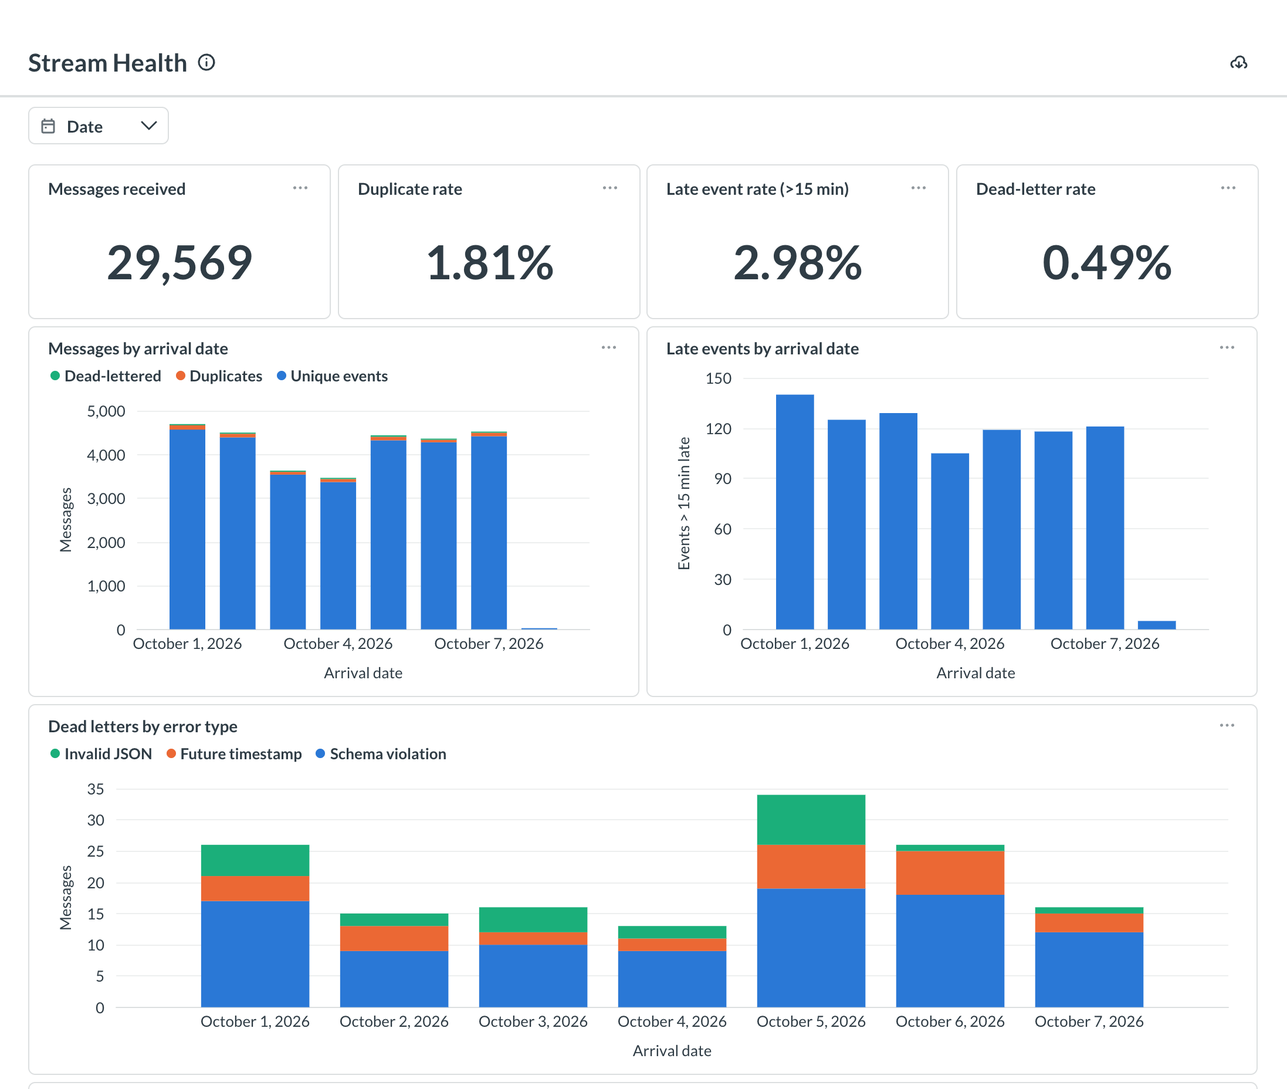
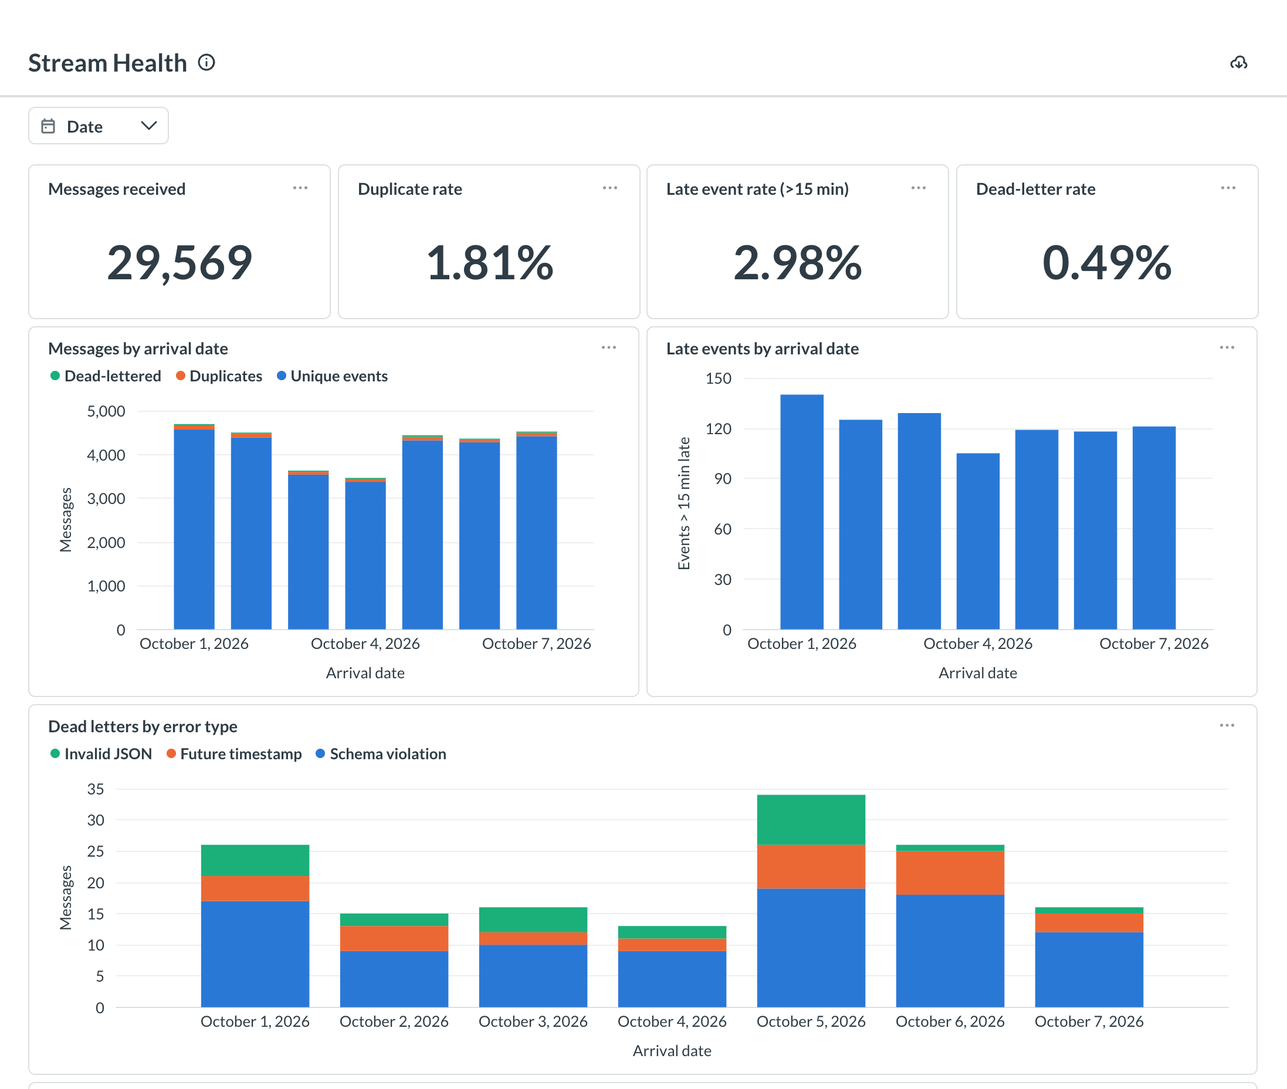
fix: explain spill-over days and the dead-letter queue in reports
- agg_pipeline_health / agg_dead_letters_daily: is_spillover_day flags arrival
  days that hold only late stragglers for days already over (5 events from
  Oct 7 that arrived after midnight). Daily charts skip them; totals keep them,
  and the HTML report says where they went. Tested in the e2e suite.
- HTML report: dead-letter section with readable error names, what each
  means, share of all messages and a total row
- Metabase Stream Health daily views exclude spill-over days; new screenshots

Changed region(s): [[0.5889, 0.3438, 0.9298, 0.625], [0.124, 0.375, 0.4339, 0.625]]

diff --git a/docs/kpi_report.html b/docs/kpi_report.html
@@ -73,6 +73,9 @@
   table { border-collapse: collapse; width: 100%; margin-top: 8px; font-variant-numeric: tabular-nums; }
   th, td { text-align: left; padding: 4px 8px; border-bottom: 1px solid var(--grid); }
   th { color: var(--text-muted); font-weight: 600; }
+  th.num, td.num { text-align: right; white-space: nowrap; }
+  td.desc { color: var(--text-secondary); }
+  tr.total td { font-weight: 600; border-bottom: 0; }
   .scroll { overflow-x: auto; }
   footer { margin-top: 40px; font-size: 12px; color: var(--text-muted); }
 </style>
@@ -101,18 +104,21 @@
     <section class="card"><h3>Prep-time SLA breach rate by store</h3><p class="sub">Share of paid orders taking over 10 min to be ready</p>
       <div class="chart" id="c-sla"></div><details><summary>Table</summary><div class="scroll" id="t-sla"></div></details></section>
     <section class="card"><h3>Messages by arrival date</h3><p class="sub">What the loader received, split by outcome</p>
-      <div class="chart" id="c-health"></div><details><summary>Table</summary><div class="scroll" id="t-health"></div></details></section>
+      <div class="chart" id="c-health"></div><p class="sub" id="spill-note" hidden></p><details><summary>Table</summary><div class="scroll" id="t-health"></div></details></section>
     <section class="card"><h3>Top items added to cart</h3><p class="sub">Units; hover for cart-to-order conversion</p>
       <div class="chart" id="c-items"></div><details><summary>Table</summary><div class="scroll" id="t-items"></div></details></section>
   </div>
 
   <h2>Dead-letter queue</h2>
-  <section class="card"><div class="scroll" id="t-dlq"></div><p class="sub" style="margin:8px 0">Rejected by the event contract and kept with the raw payload for replay.</p></section>
+  <section class="card"><h3>Messages rejected by the event contract</h3>
+    <p class="sub">Kept with the raw payload and the reason, so they can be fixed and replayed instead of silently dropped.
+      The simulator corrupts about 0.5% of messages on purpose to prove they are caught.</p>
+    <div class="scroll" id="t-dlq"></div></section>
 
   <footer>Generated by <code>pourstream report</code> from the DuckDB warehouse.</footer>
 </main>
 <script>
-const DATA = {"kpis": [{"orders": 2177, "net_revenue": 484785.0, "completion_rate": 0.934313275149288, "cancellation_rate": 0.06063389986219568, "avg_prep_minutes": 5.782163601161665, "sla_breach_rate": 0.05663117134559535}], "health_totals": [{"total_messages": 29569, "unique_events": 28888, "duplicates": 535, "late_events": 862, "dead_letters": 146, "p95_lag_seconds": 2.0}], "daily_revenue": [{"day": "2026-10-01", "revenue": 79800.0, "orders": 353}, {"day": "2026-10-02", "revenue": 76935.0, "orders": 344}, {"day": "2026-10-03", "revenue": 55400.0, "orders": 252}, {"day": "2026-10-04", "revenue": 53335.0, "orders": 240}, {"day": "2026-10-05", "revenue": 73355.0, "orders": 331}, {"day": "2026-10-06", "revenue": 71705.0, "orders": 317}, {"day": "2026-10-07", "revenue": 74255.0, "orders": 340}], "hourly_orders": [{"hour": 6, "orders": 89, "p90_prep_minutes": 5.32}, {"hour": 7, "orders": 191, "p90_prep_minutes": 8.29}, {"hour": 8, "orders": 222, "p90_prep_minutes": 8.9}, {"hour": 9, "orders": 143, "p90_prep_minutes": 5.5}, {"hour": 10, "orders": 100, "p90_prep_minutes": 5.04}, {"hour": 11, "orders": 147, "p90_prep_minutes": 5.72}, {"hour": 12, "orders": 178, "p90_prep_minutes": 8.63}, {"hour": 13, "orders": 151, "p90_prep_minutes": 8.32}, {"hour": 14, "orders": 98, "p90_prep_minutes": 4.9}, {"hour": 15, "orders": 128, "p90_prep_minutes": 5.2}, {"hour": 16, "orders": 169, "p90_prep_minutes": 5.2}, {"hour": 17, "orders": 151, "p90_prep_minutes": 8.88}, {"hour": 18, "orders": 149, "p90_prep_minutes": 5.38}, {"hour": 19, "orders": 129, "p90_prep_minutes": 5.42}, {"hour": 20, "orders": 79, "p90_prep_minutes": 5.08}, {"hour": 21, "orders": 51, "p90_prep_minutes": 4.95}, {"hour": 22, "orders": 2, "p90_prep_minutes": 7.04}], "funnel": [{"Sessions": 6912, "Viewed menu": 6353, "Added to cart": 3131, "Checkout": 2368, "Placed order": 2177, "Paid": 2122, "Picked up": 2034}], "store_sla": [{"store": "PourStream Nuvali", "format": "kiosk", "breach_rate": 0.1622, "avg_prep_minutes": 6.97, "orders": 111}, {"store": "PourStream Ayala Triangle", "format": "kiosk", "breach_rate": 0.1415, "avg_prep_minutes": 6.57, "orders": 106}, {"store": "PourStream UP Town", "format": "kiosk", "breach_rate": 0.1287, "avg_prep_minutes": 6.2, "orders": 101}, {"store": "PourStream Capitol Commons", "format": "kiosk", "breach_rate": 0.125, "avg_prep_minutes": 6.75, "orders": 104}, {"store": "PourStream Ortigas Center", "format": "standard", "breach_rate": 0.052, "avg_prep_minutes": 5.83, "orders": 173}, {"store": "PourStream Ayala Center Cebu", "format": "standard", "breach_rate": 0.0503, "avg_prep_minutes": 5.49, "orders": 159}, {"store": "PourStream Katipunan", "format": "standard", "breach_rate": 0.0476, "avg_prep_minutes": 5.67, "orders": 189}, {"store": "PourStream BGC High Street", "format": "flagship", "breach_rate": 0.04, "avg_prep_minutes": 5.67, "orders": 275}, {"store": "PourStream Abreeza", "format": "standard", "breach_rate": 0.0368, "avg_prep_minutes": 5.42, "orders": 163}, {"store": "PourStream Eastwood", "format": "standard", "breach_rate": 0.0319, "avg_prep_minutes": 5.56, "orders": 188}, {"store": "PourStream IT Park", "format": "flagship", "breach_rate": 0.0219, "avg_prep_minutes": 5.5, "orders": 320}, {"store": "PourStream Alabang Town", "format": "standard", "breach_rate": 0.0113, "avg_prep_minutes": 5.35, "orders": 177}], "health_daily": [{"day": "2026-10-01", "unique_events": 4567, "duplicate_deliveries": 102, "dead_lettered_messages": 26, "late_events": 140, "late_event_rate": 0.0307, "dead_letter_rate": 0.0055}, {"day": "2026-10-02", "unique_events": 4390, "duplicate_deliveries": 83, "dead_lettered_messages": 15, "late_events": 125, "late_event_rate": 0.0285, "dead_letter_rate": 0.0033}, {"day": "2026-10-03", "unique_events": 3539, "duplicate_deliveries": 64, "dead_lettered_messages": 16, "late_events": 129, "late_event_rate": 0.0365, "dead_letter_rate": 0.0044}, {"day": "2026-10-04", "unique_events": 3369, "duplicate_deliveries": 69, "dead_lettered_messages": 13, "late_events": 105, "late_event_rate": 0.0312, "dead_letter_rate": 0.0038}, {"day": "2026-10-05", "unique_events": 4323, "duplicate_deliveries": 81, "dead_lettered_messages": 34, "late_events": 119, "late_event_rate": 0.0275, "dead_letter_rate": 0.0077}, {"day": "2026-10-06", "unique_events": 4278, "duplicate_deliveries": 57, "dead_lettered_messages": 26, "late_events": 118, "late_event_rate": 0.0276, "dead_letter_rate": 0.006}, {"day": "2026-10-07", "unique_events": 4417, "duplicate_deliveries": 79, "dead_lettered_messages": 16, "late_events": 121, "late_event_rate": 0.0274, "dead_letter_rate": 0.0035}, {"day": "2026-10-08", "unique_events": 5, "duplicate_deliveries": 0, "dead_lettered_messages": 0, "late_events": 5, "late_event_rate": 1.0, "dead_letter_rate": 0.0}], "top_items": [{"item": "Dark Chocolate", "category": "non_coffee", "units": 447, "conversion": 0.7273}, {"item": "Chicken Pesto Sandwich", "category": "food", "units": 436, "conversion": 0.6617}, {"item": "Cappuccino", "category": "espresso", "units": 418, "conversion": 0.7044}, {"item": "Butter Croissant", "category": "food", "units": 415, "conversion": 0.7219}, {"item": "Spanish Latte", "category": "espresso", "units": 407, "conversion": 0.7075}, {"item": "Ube Cheesecake Slice", "category": "food", "units": 406, "conversion": 0.677}, {"item": "Cafe Latte", "category": "espresso", "units": 405, "conversion": 0.6794}, {"item": "Americano", "category": "espresso", "units": 403, "conversion": 0.6975}, {"item": "Strawberry Milk", "category": "non_coffee", "units": 399, "conversion": 0.6634}, {"item": "Cold Brew", "category": "cold_brew", "units": 399, "conversion": 0.6907}], "dlq": [{"error_type": "schema_violation", "messages": 94}, {"error_type": "future_timestamp", "messages": 29}, {"error_type": "invalid_json", "messages": 23}]};
+const DATA = {"kpis": [{"orders": 2177, "net_revenue": 484785.0, "completion_rate": 0.934313275149288, "cancellation_rate": 0.06063389986219568, "avg_prep_minutes": 5.782163601161665, "sla_breach_rate": 0.05663117134559535}], "health_totals": [{"total_messages": 29569, "unique_events": 28888, "duplicates": 535, "late_events": 862, "dead_letters": 146, "p95_lag_seconds": 2.0}], "daily_revenue": [{"day": "2026-10-01", "revenue": 79800.0, "orders": 353}, {"day": "2026-10-02", "revenue": 76935.0, "orders": 344}, {"day": "2026-10-03", "revenue": 55400.0, "orders": 252}, {"day": "2026-10-04", "revenue": 53335.0, "orders": 240}, {"day": "2026-10-05", "revenue": 73355.0, "orders": 331}, {"day": "2026-10-06", "revenue": 71705.0, "orders": 317}, {"day": "2026-10-07", "revenue": 74255.0, "orders": 340}], "hourly_orders": [{"hour": 6, "orders": 89, "p90_prep_minutes": 5.32}, {"hour": 7, "orders": 191, "p90_prep_minutes": 8.29}, {"hour": 8, "orders": 222, "p90_prep_minutes": 8.9}, {"hour": 9, "orders": 143, "p90_prep_minutes": 5.5}, {"hour": 10, "orders": 100, "p90_prep_minutes": 5.04}, {"hour": 11, "orders": 147, "p90_prep_minutes": 5.72}, {"hour": 12, "orders": 178, "p90_prep_minutes": 8.63}, {"hour": 13, "orders": 151, "p90_prep_minutes": 8.32}, {"hour": 14, "orders": 98, "p90_prep_minutes": 4.9}, {"hour": 15, "orders": 128, "p90_prep_minutes": 5.2}, {"hour": 16, "orders": 169, "p90_prep_minutes": 5.2}, {"hour": 17, "orders": 151, "p90_prep_minutes": 8.88}, {"hour": 18, "orders": 149, "p90_prep_minutes": 5.38}, {"hour": 19, "orders": 129, "p90_prep_minutes": 5.42}, {"hour": 20, "orders": 79, "p90_prep_minutes": 5.08}, {"hour": 21, "orders": 51, "p90_prep_minutes": 4.95}, {"hour": 22, "orders": 2, "p90_prep_minutes": 7.04}], "funnel": [{"Sessions": 6912, "Viewed menu": 6353, "Added to cart": 3131, "Checkout": 2368, "Placed order": 2177, "Paid": 2122, "Picked up": 2034}], "store_sla": [{"store": "PourStream Nuvali", "format": "kiosk", "breach_rate": 0.1622, "avg_prep_minutes": 6.97, "orders": 111}, {"store": "PourStream Ayala Triangle", "format": "kiosk", "breach_rate": 0.1415, "avg_prep_minutes": 6.57, "orders": 106}, {"store": "PourStream UP Town", "format": "kiosk", "breach_rate": 0.1287, "avg_prep_minutes": 6.2, "orders": 101}, {"store": "PourStream Capitol Commons", "format": "kiosk", "breach_rate": 0.125, "avg_prep_minutes": 6.75, "orders": 104}, {"store": "PourStream Ortigas Center", "format": "standard", "breach_rate": 0.052, "avg_prep_minutes": 5.83, "orders": 173}, {"store": "PourStream Ayala Center Cebu", "format": "standard", "breach_rate": 0.0503, "avg_prep_minutes": 5.49, "orders": 159}, {"store": "PourStream Katipunan", "format": "standard", "breach_rate": 0.0476, "avg_prep_minutes": 5.67, "orders": 189}, {"store": "PourStream BGC High Street", "format": "flagship", "breach_rate": 0.04, "avg_prep_minutes": 5.67, "orders": 275}, {"store": "PourStream Abreeza", "format": "standard", "breach_rate": 0.0368, "avg_prep_minutes": 5.42, "orders": 163}, {"store": "PourStream Eastwood", "format": "standard", "breach_rate": 0.0319, "avg_prep_minutes": 5.56, "orders": 188}, {"store": "PourStream IT Park", "format": "flagship", "breach_rate": 0.0219, "avg_prep_minutes": 5.5, "orders": 320}, {"store": "PourStream Alabang Town", "format": "standard", "breach_rate": 0.0113, "avg_prep_minutes": 5.35, "orders": 177}], "health_daily": [{"day": "2026-10-01", "unique_events": 4567, "duplicate_deliveries": 102, "dead_lettered_messages": 26, "late_events": 140, "late_event_rate": 0.0307, "dead_letter_rate": 0.0055}, {"day": "2026-10-02", "unique_events": 4390, "duplicate_deliveries": 83, "dead_lettered_messages": 15, "late_events": 125, "late_event_rate": 0.0285, "dead_letter_rate": 0.0033}, {"day": "2026-10-03", "unique_events": 3539, "duplicate_deliveries": 64, "dead_lettered_messages": 16, "late_events": 129, "late_event_rate": 0.0365, "dead_letter_rate": 0.0044}, {"day": "2026-10-04", "unique_events": 3369, "duplicate_deliveries": 69, "dead_lettered_messages": 13, "late_events": 105, "late_event_rate": 0.0312, "dead_letter_rate": 0.0038}, {"day": "2026-10-05", "unique_events": 4323, "duplicate_deliveries": 81, "dead_lettered_messages": 34, "late_events": 119, "late_event_rate": 0.0275, "dead_letter_rate": 0.0077}, {"day": "2026-10-06", "unique_events": 4278, "duplicate_deliveries": 57, "dead_lettered_messages": 26, "late_events": 118, "late_event_rate": 0.0276, "dead_letter_rate": 0.006}, {"day": "2026-10-07", "unique_events": 4417, "duplicate_deliveries": 79, "dead_lettered_messages": 16, "late_events": 121, "late_event_rate": 0.0274, "dead_letter_rate": 0.0035}], "spillover": [{"day": "2026-10-08", "total_messages": 5, "late_events": 5}], "top_items": [{"item": "Dark Chocolate", "category": "non_coffee", "units": 447, "conversion": 0.7273}, {"item": "Chicken Pesto Sandwich", "category": "food", "units": 436, "conversion": 0.6617}, {"item": "Cappuccino", "category": "espresso", "units": 418, "conversion": 0.7044}, {"item": "Butter Croissant", "category": "food", "units": 415, "conversion": 0.7219}, {"item": "Spanish Latte", "category": "espresso", "units": 407, "conversion": 0.7075}, {"item": "Ube Cheesecake Slice", "category": "food", "units": 406, "conversion": 0.677}, {"item": "Cafe Latte", "category": "espresso", "units": 405, "conversion": 0.6794}, {"item": "Americano", "category": "espresso", "units": 403, "conversion": 0.6975}, {"item": "Cold Brew", "category": "cold_brew", "units": 399, "conversion": 0.6907}, {"item": "Strawberry Milk", "category": "non_coffee", "units": 399, "conversion": 0.6634}], "dlq": [{"error_type": "schema_violation", "messages": 94}, {"error_type": "future_timestamp", "messages": 29}, {"error_type": "invalid_json", "messages": 23}]};
 const fmt = {
   int: v => v == null ? "–" : Math.round(v).toLocaleString("en-US"),
   php: v => v == null ? "–" : "₱" + Math.round(v).toLocaleString("en-US"),
@@ -155,7 +161,29 @@ table("t-funnel", funnelRows, { sessions: fmt.int });
 table("t-sla", DATA.store_sla, { breach_rate: fmt.pct, orders: fmt.int });
 table("t-health", DATA.health_daily, { late_event_rate: fmt.pct, dead_letter_rate: fmt.pct });
 table("t-items", DATA.top_items, { conversion: fmt.pct, units: fmt.int });
-table("t-dlq", DATA.dlq, { messages: fmt.int });
+const DLQ_INFO = {
+  schema_violation: ["Schema violation", "Valid JSON that breaks the contract: a missing or wrong-typed field, a bad store ID, a negative quantity, or a timestamp without a timezone."],
+  future_timestamp: ["Future timestamp", "Event time more than 5 minutes ahead of when the broker received it, from a device with a wrong clock."],
+  invalid_json: ["Invalid JSON", "The payload cannot be parsed at all, for example a truncated message."],
+};
+(function renderDlq() {
+  const total = DATA.dlq.reduce((a, r) => a + r.messages, 0);
+  const share = n => (n / h.total_messages * 100).toFixed(2) + "%";
+  const rows = DATA.dlq.map(r => {
+    const [name, desc] = DLQ_INFO[r.error_type] || [r.error_type, ""];
+    return `<tr><td style="white-space:nowrap">${name}</td><td class="desc">${desc}</td><td class="num">${fmt.int(r.messages)}</td><td class="num">${share(r.messages)}</td></tr>`;
+  }).join("");
+  document.getElementById("t-dlq").innerHTML =
+    `<table><thead><tr><th>Error type</th><th>What it means</th><th class="num">Messages</th><th class="num">Share of all messages</th></tr></thead>` +
+    `<tbody>${rows}<tr class="total"><td>Total</td><td></td><td class="num">${fmt.int(total)}</td><td class="num">${share(total)}</td></tr></tbody></table>`;
+})();
+if (DATA.spillover.length) {
+  const n = DATA.spillover.reduce((a, r) => a + r.total_messages, 0);
+  const days = DATA.spillover.map(r => new Date(r.day + "T00:00").toLocaleDateString("en-US", { weekday: "short", day: "numeric", month: "short" })).join(", ");
+  const note = document.getElementById("spill-note");
+  note.textContent = `Not shown: ${fmt.int(n)} late message${n === 1 ? "" : "s"} that arrived on ${days}, after the simulated week ended. They are included in the totals above.`;
+  note.hidden = false;
+}
 
 function draw() {
   const css = getComputedStyle(document.documentElement);

diff --git a/src/pourstream/report_template.html b/src/pourstream/report_template.html
@@ -73,6 +73,9 @@
   table { border-collapse: collapse; width: 100%; margin-top: 8px; font-variant-numeric: tabular-nums; }
   th, td { text-align: left; padding: 4px 8px; border-bottom: 1px solid var(--grid); }
   th { color: var(--text-muted); font-weight: 600; }
+  th.num, td.num { text-align: right; white-space: nowrap; }
+  td.desc { color: var(--text-secondary); }
+  tr.total td { font-weight: 600; border-bottom: 0; }
   .scroll { overflow-x: auto; }
   footer { margin-top: 40px; font-size: 12px; color: var(--text-muted); }
 </style>
@@ -101,13 +104,16 @@
     <section class="card"><h3>Prep-time SLA breach rate by store</h3><p class="sub">Share of paid orders taking over 10 min to be ready</p>
       <div class="chart" id="c-sla"></div><details><summary>Table</summary><div class="scroll" id="t-sla"></div></details></section>
     <section class="card"><h3>Messages by arrival date</h3><p class="sub">What the loader received, split by outcome</p>
-      <div class="chart" id="c-health"></div><details><summary>Table</summary><div class="scroll" id="t-health"></div></details></section>
+      <div class="chart" id="c-health"></div><p class="sub" id="spill-note" hidden></p><details><summary>Table</summary><div class="scroll" id="t-health"></div></details></section>
     <section class="card"><h3>Top items added to cart</h3><p class="sub">Units; hover for cart-to-order conversion</p>
       <div class="chart" id="c-items"></div><details><summary>Table</summary><div class="scroll" id="t-items"></div></details></section>
   </div>
 
   <h2>Dead-letter queue</h2>
-  <section class="card"><div class="scroll" id="t-dlq"></div><p class="sub" style="margin:8px 0">Rejected by the event contract and kept with the raw payload for replay.</p></section>
+  <section class="card"><h3>Messages rejected by the event contract</h3>
+    <p class="sub">Kept with the raw payload and the reason, so they can be fixed and replayed instead of silently dropped.
+      The simulator corrupts about 0.5% of messages on purpose to prove they are caught.</p>
+    <div class="scroll" id="t-dlq"></div></section>
 
   <footer>Generated by <code>pourstream report</code> from the DuckDB warehouse.</footer>
 </main>
@@ -155,7 +161,29 @@ table("t-funnel", funnelRows, { sessions: fmt.int });
 table("t-sla", DATA.store_sla, { breach_rate: fmt.pct, orders: fmt.int });
 table("t-health", DATA.health_daily, { late_event_rate: fmt.pct, dead_letter_rate: fmt.pct });
 table("t-items", DATA.top_items, { conversion: fmt.pct, units: fmt.int });
-table("t-dlq", DATA.dlq, { messages: fmt.int });
+const DLQ_INFO = {
+  schema_violation: ["Schema violation", "Valid JSON that breaks the contract: a missing or wrong-typed field, a bad store ID, a negative quantity, or a timestamp without a timezone."],
+  future_timestamp: ["Future timestamp", "Event time more than 5 minutes ahead of when the broker received it, from a device with a wrong clock."],
+  invalid_json: ["Invalid JSON", "The payload cannot be parsed at all, for example a truncated message."],
+};
+(function renderDlq() {
+  const total = DATA.dlq.reduce((a, r) => a + r.messages, 0);
+  const share = n => (n / h.total_messages * 100).toFixed(2) + "%";
+  const rows = DATA.dlq.map(r => {
+    const [name, desc] = DLQ_INFO[r.error_type] || [r.error_type, ""];
+    return `<tr><td style="white-space:nowrap">${name}</td><td class="desc">${desc}</td><td class="num">${fmt.int(r.messages)}</td><td class="num">${share(r.messages)}</td></tr>`;
+  }).join("");
+  document.getElementById("t-dlq").innerHTML =
+    `<table><thead><tr><th>Error type</th><th>What it means</th><th class="num">Messages</th><th class="num">Share of all messages</th></tr></thead>` +
+    `<tbody>${rows}<tr class="total"><td>Total</td><td></td><td class="num">${fmt.int(total)}</td><td class="num">${share(total)}</td></tr></tbody></table>`;
+})();
+if (DATA.spillover.length) {
+  const n = DATA.spillover.reduce((a, r) => a + r.total_messages, 0);
+  const days = DATA.spillover.map(r => new Date(r.day + "T00:00").toLocaleDateString("en-US", { weekday: "short", day: "numeric", month: "short" })).join(", ");
+  const note = document.getElementById("spill-note");
+  note.textContent = `Not shown: ${fmt.int(n)} late message${n === 1 ? "" : "s"} that arrived on ${days}, after the simulated week ended. They are included in the totals above.`;
+  note.hidden = false;
+}
 
 function draw() {
   const css = getComputedStyle(document.documentElement);

diff --git a/bi/metabase/build_dashboards.py b/bi/metabase/build_dashboards.py
@@ -493,6 +493,8 @@ def build(b: Builder) -> list[dict]:
     h = {"date": ("agg_pipeline_health", "arrival_date_local")}
     d = {"date": ("agg_dead_letters_daily", "arrival_date_local")}
     hp = "from gold.agg_pipeline_health where {{date}}"
+    # Daily views skip spill-over days (only stragglers for days already over); totals keep them.
+    hd = hp + " and not is_spillover_day"
     health = [
         b.card("Messages received", f"select sum(total_messages) as messages {hp}", "scalar", h),
         b.card(
@@ -522,7 +524,7 @@ def build(b: Builder) -> list[dict]:
                        unique_events as "Unique events",
                        duplicate_deliveries as "Duplicates",
                        dead_lettered_messages as "Dead-lettered"
-                {hp} order by 1""",
+                {hd} order by 1""",
             "bar",
             h,
             chart(
@@ -536,7 +538,7 @@ def build(b: Builder) -> list[dict]:
         ),
         b.card(
             "Late events by arrival date",
-            f"select arrival_date_local as day, late_events {hp} order by 1",
+            f"select arrival_date_local as day, late_events {hd} order by 1",
             "bar",
             h,
             chart("day", ["late_events"], [BLUE], "Arrival date", "Events > 15 min late"),
@@ -550,7 +552,8 @@ def build(b: Builder) -> list[dict]:
                           as "Future timestamp",
                       sum(dead_lettered_messages) filter (where error_type = 'invalid_json')
                           as "Invalid JSON"
-               from gold.agg_dead_letters_daily where {{date}} group by 1 order by 1""",
+               from gold.agg_dead_letters_daily where {{date}} and not is_spillover_day
+               group by 1 order by 1""",
             "bar",
             d,
             chart(
@@ -569,7 +572,7 @@ def build(b: Builder) -> list[dict]:
                        late_events as "Late", dead_lettered_messages as "Dead-lettered",
                        p50_arrival_lag_seconds as "p50 lag (s)",
                        p95_arrival_lag_seconds as "p95 lag (s)"
-                {hp} order by 1""",
+                {hd} order by 1""",
             "table",
             h,
         ),

diff --git a/tests/test_pipeline_e2e.py b/tests/test_pipeline_e2e.py
@@ -43,6 +43,11 @@ def test_full_pipeline_builds_and_reconciles(settings, tmp_path):
             " sum(dead_lettered_messages) from gold.agg_pipeline_health"
         ).fetchone()
         orders = con.execute("select count(*) from gold.fct_orders").fetchone()[0]
+        # A spill-over day holds only stragglers: every event on it arrived late.
+        bad_spillover = con.execute(
+            "select count(*) from gold.agg_pipeline_health"
+            " where is_spillover_day and late_events <> unique_events"
+        ).fetchone()[0]
 
     assert health == (
         len(sim.messages),
@@ -50,6 +55,7 @@ def test_full_pipeline_builds_and_reconciles(settings, tmp_path):
         sim.kinds["duplicate"],
         stats.dead_lettered,
     )
+    assert bad_spillover == 0
     # An order disappears only if every one of its events was dead-lettered.
     assert sim.orders - 5 <= orders <= sim.orders
     assert render(settings.warehouse_path, tmp_path / "report.html").stat().st_size > 5000

diff --git a/src/pourstream/report.py b/src/pourstream/report.py
@@ -57,7 +57,11 @@ QUERIES = {
     "health_daily": """
         select arrival_date_local as day, unique_events, duplicate_deliveries,
                dead_lettered_messages, late_events, late_event_rate, dead_letter_rate
-        from gold.agg_pipeline_health order by 1
+        from gold.agg_pipeline_health where not is_spillover_day order by 1
+    """,
+    "spillover": """
+        select arrival_date_local as day, total_messages, late_events
+        from gold.agg_pipeline_health where is_spillover_day order by 1
     """,
     "top_items": """
         select item_name as item, category, sum(quantity) as units,
